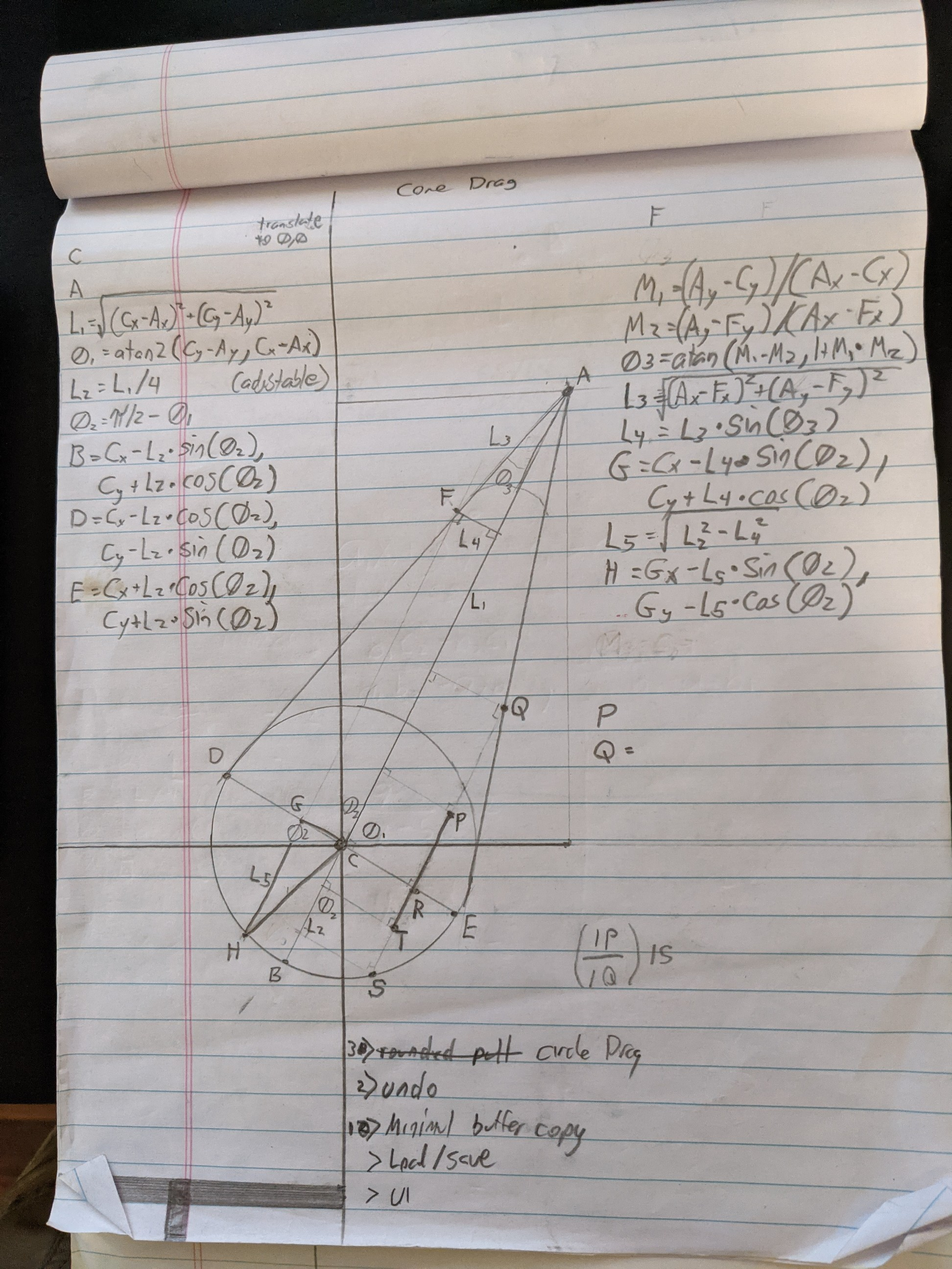
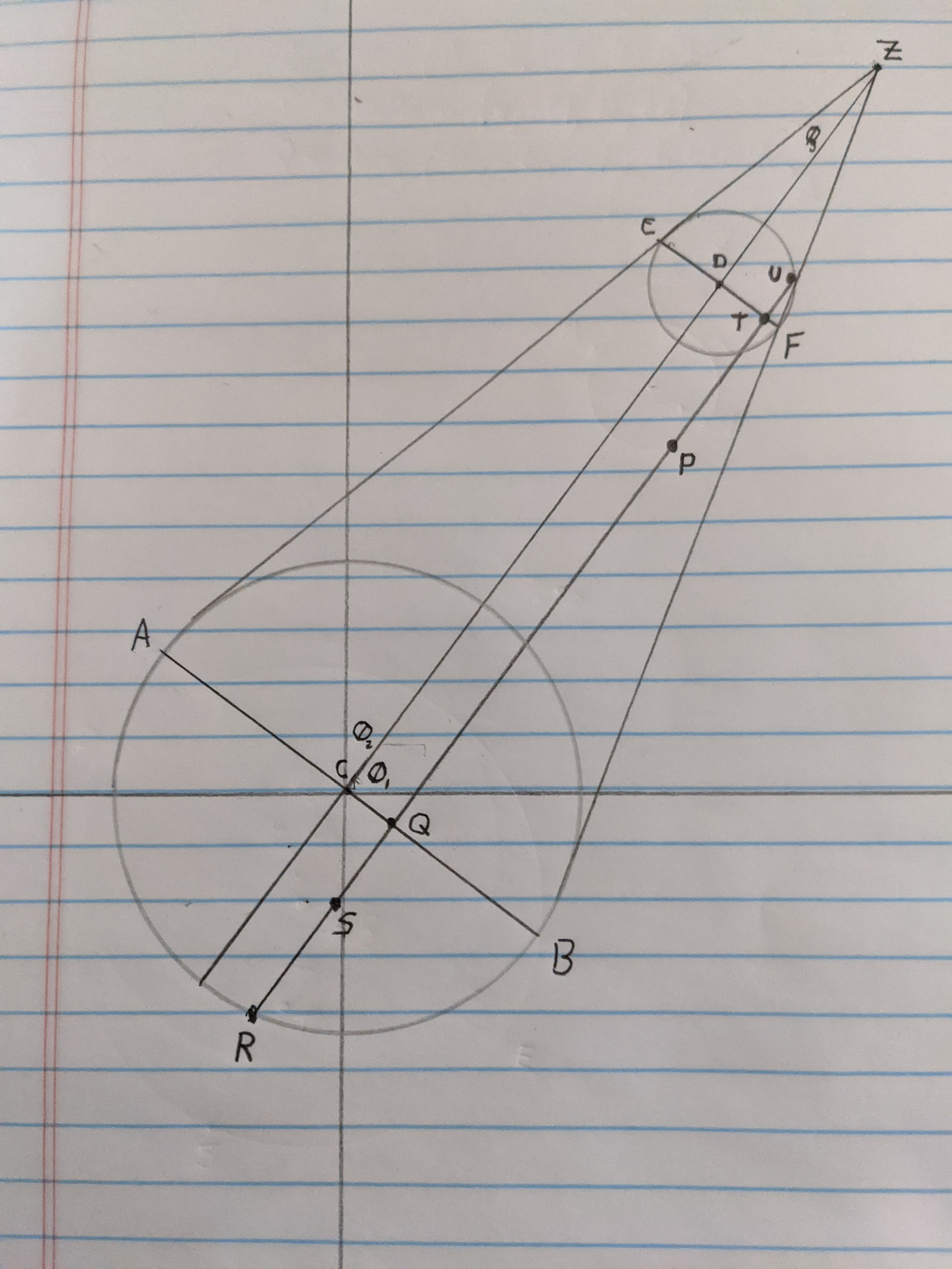
alternate algorithm so pull end is not a point

diff --git a/morph.js b/morph.js
@@ -24,6 +24,8 @@ class MorphTester {
       this.isDragging = false;
       this.debugMode  = false;
       this.history = {head:0, tail:0, curr:0, idx:0};
+      this.ratio_CZ_C = 4;
+      this.ratio_C_D  = 3;
 
       this.$canvas
          .mousemove((e) => this.MouseMove(e))
@@ -61,7 +63,7 @@ class MorphTester {
 
    MouseDown(event) {
       this.isDragging = true;
-      this.ptC = this.ptA = this.MousePoint(event);
+      this.pointC = this.pointZ = this.MousePoint(event);
       this.CalcMetrics();
       this.Draw();
    }
@@ -107,75 +109,90 @@ class MorphTester {
    //------------------calc----------------------------
 
    CalcMetrics() {
-      let a = this.ptA = this.current;
-      let c = this.ptC;
-      this.l1 = this.Distance(c, a);
-      this.l2 = this.l1 == 0 ? 1 : this.l1/4;
-      let l2 = this.l2;
-      this.t1 = Math.atan2(c.y - a.y, a.x - c.x);
-      this.t2 = Math.PI/2 - this.t1;
-      let t2 = this.t2;
-      this.ptB = this.Pt(c.x - l2 * Math.sin(t2), c.y + l2 * Math.cos(t2));
-      this.ptD = this.Pt(c.x - l2 * Math.cos(t2), c.y - l2 * Math.sin(t2));
-      this.ptE = this.Pt(c.x + l2 * Math.cos(t2), c.y + l2 * Math.sin(t2));
-      this.tMax = this.Angle(a, c, this.ptD);
+      let pZ = this.pointZ = this.current;
+      let pC = this.pointC;
+      this.lenCZ = this.Distance(pC, pZ);
+      let radC = this.radC = this.lenCZ == 0 ? 1 : this.lenCZ/this.ratio_CZ_C;
+      this.theta1 = Math.atan2(pC.y - pZ.y, pZ.x - pC.x);
+      let theta2  = this.theta2 = Math.PI/2 - this.theta1;
+      this.pointA = this.Point(pC.x - radC * Math.cos(theta2), pC.y - radC * Math.sin(theta2));
+      this.pointB = this.Point(pC.x + radC * Math.cos(theta2), pC.y + radC * Math.sin(theta2));
+      this.theta3   = this.Angle(pZ, pC, this.pointA);
+
+      let radD = this.radD = radC/this.ratio_C_D;
+      this.pointD = this.Move(this.pointZ, -this.theta1+Math.PI, this.lenCZ/this.ratio_C_D);
+      this.pointE = this.Point(this.pointD.x - radD * Math.cos(theta2), this.pointD.y - radD * Math.sin(theta2));
+      this.pointF = this.Point(this.pointD.x + radD * Math.cos(theta2), this.pointD.y + radD * Math.sin(theta2));
+      this.lenDZ  = this.Distance(this.pointD, pZ);
+
       this.LogMetrics();
    }
 
-   CalcDragPixel(z) {
-      this.isInside = this.IsInside(z);
+   CalcDragPixel(pP) {
+      this.isInside = this.IsInside(pP);
       if (!this.isInside)
          return $("#log2").text("Not Inside");
 
-      let a = this.ptA;
-      let d = this.ptD;
-      let e = this.ptE;
-      this.ptR = this.Intersection(z, -this.t1, this.ptC, this.t2);
+      let pZ = this.pointZ;
+      let pA = this.pointA;
+      let pB = this.pointB;
+      this.pointQ = this.Intersection(pP, -this.theta1, this.pointC, this.theta2);
 
-      let ptZ = this.Distance(z, d) < this.Distance(z, e) ? d : e;
-      this.t3  = Math.atan2(ptZ.y - a.y, ptZ.x - a.x);
+      let pTmp = this.Distance(pP, pA) < this.Distance(pP, pB) ? pA : pB;
+      let thetaZ = Math.atan2(pTmp.y - pZ.y, pTmp.x - pZ.x);
+      let lCQ = this.Distance(this.pointC, this.pointQ);
       
-      this.ptQ = this.Intersection(z, -this.t1, this.ptA, this.t3);
+      if (lCQ < this.radD) {
+         this.pointT = this.Intersection(pP, -this.theta1, this.pointD, this.theta2);
+         let lDT = this.Distance(this.pointD, this.pointT);
+         let lTU = Math.sqrt(this.radD*this.radD - lDT*lDT);
+         this.pointU = this.Move(this.pointT, -this.theta1, lTU);
+      } else {
+         this.pointU = this.Intersection(pP, -this.theta1, this.pointZ, thetaZ);
+      }
 
-      let dr = this.Distance(this.ptC, this.ptR);
-      let l3 = Math.sqrt(this.l2*this.l2 - dr*dr);
-      this.ptS = this.Move(this.ptR, -this.t1 + Math.PI, l3);
-      let sq = this.Distance(this.ptS, this.ptQ);
-      let sz = this.Distance(this.ptS, z);
-      let sr = this.Distance(this.ptS, this.ptR);
-      this.ptT = this.Move(this.ptR, -this.t1 + Math.PI, sr - sz*sr/sq);
+      let lQR = Math.sqrt(this.radC*this.radC - lCQ*lCQ);
+      this.pointR = this.Move(this.pointQ, -this.theta1 + Math.PI, lQR);
+      let lRU = this.Distance(this.pointR, this.pointU);
+      let lPR = this.Distance(this.pointR, pP);
+      let lQR2 = this.Distance(this.pointR, this.pointQ);
 
-      //this.LogTest();
-      return this.ptT;
+      this.pointS = this.Move(this.pointQ, -this.theta1 + Math.PI, lQR - lPR * lQR2 / lRU);
+      return this.pointS;
    }
 
-   IsInside(z, checkBoundingBox = false) {
-      if (!this.ptC) return false;
-      let a = this.ptA;
-      let c = this.ptC;
-      let l2 = this.l2;
-      let t = this.Angle(a, c, z);
-      if (Math.abs(t) > Math.abs(this.tMax)) return false;
-      if (checkBoundingBox && z.x < Math.min(c.x - l2, a.x)) return false;
-      if (checkBoundingBox && z.x > Math.max(c.x + l2, a.x)) return false;
-      if (checkBoundingBox && z.y < Math.min(c.y - l2, a.y)) return false;
-      if (checkBoundingBox && z.y > Math.max(c.y + l2, a.y)) return false;
-      let lza = this.Distance(z, a);
-      if (lza <= this.l1) return true;
-      let lzc = this.Distance(z, c);
-      return (lzc <= this.l2);
+   IsInside(pP, checkBoundingBox = false) {
+      if (!this.pointC) return false;
+      let pZ = this.pointZ;
+      let pC = this.pointC;
+      let pD = this.pointD;
+      let radC = this.radC;
+      let radD = this.radD;
+      let t = this.Angle(pZ, pC, pP);
+      if (Math.abs(t) > Math.abs(this.theta3)) return false;
+      if (checkBoundingBox && pP.x < Math.min(pC.x - radC, pZ.x)) return false;
+      if (checkBoundingBox && pP.x > Math.max(pC.x + radC, pZ.x)) return false;
+      if (checkBoundingBox && pP.y < Math.min(pC.y - radC, pZ.y)) return false;
+      if (checkBoundingBox && pP.y > Math.max(pC.y + radC, pZ.y)) return false;
+
+      let lPZ = this.Distance(pP, pZ);
+      if (lPZ > this.lenCZ)
+         return (this.Distance(pP, pC) <= this.radC);
+      if (lPZ < this.lenDZ)
+         return (this.Distance(pP, pD) <= this.radD);
+      return true;
    }
 
    BoundingBox() {
-      let a  = this.ptA;
-      let c  = this.ptC;
-      let l2 = this.l2;
-      let l = Math.round(Math.min(c.x - l2, a.x));
-      let r = Math.round(Math.max(c.x + l2, a.x));
-      let t = Math.round(Math.min(c.y - l2, a.y));
-      let b = Math.round(Math.max(c.y + l2, a.y));
-      let w = r - l; //+1?
-      let h = b - t; //+1?
+      let pZ  = this.pointZ;
+      let pC  = this.pointC;
+      let radC = this.radC;
+      let l = Math.round(Math.min(pC.x - radC, pZ.x));
+      let r = Math.round(Math.max(pC.x + radC, pZ.x));
+      let t = Math.round(Math.min(pC.y - radC, pZ.y));
+      let b = Math.round(Math.max(pC.y + radC, pZ.y));
+      let w = r - l + 1;
+      let h = b - t + 1;
       return {l, r, t, b, w, h};
    }
 
@@ -216,8 +233,12 @@ class MorphTester {
 
    UpdateRefData() {
       let bb = this.BoundingBox();
+
       let clip = this.ctx.getImageData(bb.l, bb.t, bb.w, bb.h);
+
       let oldData = new Uint8ClampedArray(bb.w * bb.h * 4);
+
+      console.log("clip", clip);
 
       for (let y=0; y<bb.h; y++) {
          for (let x=0; x<bb.w; x++) {
@@ -249,31 +270,41 @@ class MorphTester {
    }
 
    DrawMetrics() {
-      if (this.ptC) {
-         this.DrawPoint(this.ptA, "blue");
-         this.DrawPoint(this.ptC, "blue");
-         this.DrawPoint(this.ptB, "lightblue");
-         this.DrawPoint(this.ptD, "lightblue");
-         this.DrawPoint(this.ptE, "lightblue");
-         this.DrawLine(this.ptC, this.ptA, 1, "blue");
-         this.DrawLine(this.ptC, this.ptB, 1, "lightblue");
-         this.DrawLine(this.ptC, this.ptD, 1, "lightblue");
-         this.DrawLine(this.ptC, this.ptE, 1, "lightblue");
-         this.DrawLine(this.ptA, this.ptD, 1, "lightblue");
-         this.DrawLine(this.ptA, this.ptE, 1, "lightblue");
-         this.DrawCircle(this.ptC, 1, this.l2, "lightblue");
+      if (this.pointC) {
+         this.DrawPoint(this.pointZ, "blue");
+         this.DrawPoint(this.pointC, "blue");
+//         this.DrawPoint(this.ptB, "lightblue");
+         this.DrawPoint(this.pointA, "lightblue");
+         this.DrawPoint(this.pointB, "lightblue");
+         this.DrawLine(this.pointC, this.pointZ, 1, "blue");
+//         this.DrawLine(this.pointC, this.ptB, 1, "lightblue");
+         this.DrawLine(this.pointC, this.pointA, 1, "lightblue");
+         this.DrawLine(this.pointC, this.pointB, 1, "lightblue");
+         this.DrawLine(this.pointZ, this.pointA, 1, "lightblue");
+         this.DrawLine(this.pointZ, this.pointB, 1, "lightblue");
+         this.DrawCircle(this.pointC, 1, this.radC, "lightblue");
+
+////
+         this.DrawPoint(this.pointD, "blue");
+         this.DrawPoint(this.pointE, "lightblue");
+         this.DrawPoint(this.pointF, "lightblue");
+         this.DrawCircle(this.pointD, 1, this.radC/4, "lightblue");
+////
       }
    }
 
    DrawTest() {
       if (!this.isInside) return;
-      //this.DrawLine(this.current, this.Move(this.current, -this.t1, 50), 1, "red");
-      this.DrawLine(this.ptQ, this.ptR, 1, "red");
-      this.DrawLine(this.ptS, this.ptR, 1, "lightred");
-      this.DrawPoint(this.ptR, "red");
-      this.DrawPoint(this.ptQ, "red");
-      this.DrawPoint(this.ptS, "red");
-      this.DrawPoint(this.ptT, "lightgreen");
+      //this.DrawLine(this.current, this.Move(this.current, -this.theta1, 50), 1, "red");
+      this.DrawLine(this.pointU, this.pointQ, 1, "red");
+      this.DrawLine(this.pointR, this.pointQ, 1, "lightred");
+      this.DrawPoint(this.pointQ, "red");
+      this.DrawPoint(this.pointU, "red");
+      this.DrawPoint(this.pointR, "red");
+      this.DrawPoint(this.pointS, "lightgreen");
+////
+      this.DrawPoint(this.pointT, "red");
+
    }
 
    DrawPoint(point, color) {
@@ -393,34 +424,34 @@ class MorphTester {
       return {x: Math.round(point.x + len * Math.cos(t)), y: Math.round(point.y + len * Math.sin(t))};
    }
 
-   Intersection(p1, t1, p2, t2) {
+   Intersection(p1, theta1, p2, theta2) {
       let pi = Math.PI;
       let hpi = pi/2;
 
-      if (((t1 % pi) + pi) % pi == hpi) { // vertical line at x = x0
-         return [p1.x, Math.tan(t2) * (p1.x-p2.x) + p2.y];
+      if (((theta1 % pi) + pi) % pi == hpi) { // vertical line at x = x0
+         return [p1.x, Math.tan(theta2) * (p1.x-p2.x) + p2.y];
       }
-      else if (((t2 % pi) + pi) % pi == hpi) { // vertical line at x = p1.x
-         return [p2.x, Math.tan(t1) * (p2.x-p1.x) + p1.y];
+      else if (((theta2 % pi) + pi) % pi == hpi) { // vertical line at x = p1.x
+         return [p2.x, Math.tan(theta1) * (p2.x-p1.x) + p1.y];
       }
-      let m0 = Math.tan(t1); // Line 0: y = m0 (x - p1.x) + p1.y
-      let m1 = Math.tan(t2); // Line 1: y = m1 (x - p2.x) + p2.y
+      let m0 = Math.tan(theta1); // Line 0: y = m0 (x - p1.x) + p1.y
+      let m1 = Math.tan(theta2); // Line 1: y = m1 (x - p2.x) + p2.y
       let x = ((m0 * p1.x - m1 * p2.x) - (p1.y - p2.y)) / (m0 - m1);
       return {x, y: m0 * (x - p1.x) + p1.y};
    }
 
-   PtStr(p) {
+   PointStr(p) {
       let x = Math.round(p.x * 100) / 100.0;
       let y = Math.round(p.y * 100) / 100.0;
       return `${x},${y}`;
    }
 
-   NStr(l) {
+   NumStr(l) {
       let ls = Math.round(l * 1000) / 1000.0;
       return `${ls}`;
    }
 
-   Pt(x,y) {
+   Point(x,y) {
       return {x, y};
    }
 
@@ -432,28 +463,30 @@ class MorphTester {
 
    LogMetrics() {
       let msg = 
-         `ptC: ${this.PtStr(this.ptC) }\n` +
-         `ptA: ${this.PtStr(this.ptA) }\n` +
-         `l1:  ${this.NStr (this.l1)  }\n` +
-         `l2:  ${this.NStr (this.l2)  }\n` +
-         `t1:  ${this.NStr (this.t1)  }\n` +
-         `t2:  ${this.NStr (this.t2)  }\n` +
-         `ptB: ${this.PtStr(this.ptB) }\n` +
-         `ptD: ${this.PtStr(this.ptD) }\n` +
-         `ptE: ${this.PtStr(this.ptE) }\n` +
-         `tMax:${this.NStr (this.tMax)}\n` ;
-
+         `lenCZ:  ${this.NumStr (this.lenCZ)  }\n` +
+         `pointA: ${this.PointStr(this.pointA)}\n` +
+         `pointB: ${this.PointStr(this.pointB)}\n` +
+         `pointC: ${this.PointStr(this.pointC)}\n` +
+         `pointD: ${this.PointStr(this.pointD)}\n` +
+         `pointE: ${this.PointStr(this.pointE)}\n` +
+         `pointF: ${this.PointStr(this.pointF)}\n` +
+         `pointZ: ${this.PointStr(this.pointZ)}\n` +
+         `radC:   ${this.NumStr (this.radC)   }\n` +
+         `radD:   ${this.NumStr (this.radC)   }\n` +
+         `theta1: ${this.NumStr (this.theta1) }\n` +
+         `theta2: ${this.NumStr (this.theta2) }\n` +
+         `theta3:${this.NumStr (this.theta3)  }\n` ;
       $("#log").text(msg);
    }
 
    LogTest() {
-      if (!this.ptQ) return;
+      if (!this.pointU) return;
       let msg = 
-         `ptQ: ${this.PtStr(this.ptQ) }\n` +
-         `ptR: ${this.PtStr(this.ptR) }\n` +
-         `ptS: ${this.PtStr(this.ptS) }\n` +
-         `ptT: ${this.PtStr(this.ptT) }\n` +
-         `t3:  ${this.NStr (this.t3)  }\n` ;
+         `pointU: ${this.PointStr(this.pointU)}\n` +
+         `pointQ: ${this.PointStr(this.pointQ)}\n` +
+         `pointR: ${this.PointStr(this.pointR)}\n` +
+         `pointS: ${this.PointStr(this.pointS)}\n` +
+         `theta3:  ${this.NumStr (this.theta3)}\n` ;
       $("#log2").text(msg);
    }
 }
